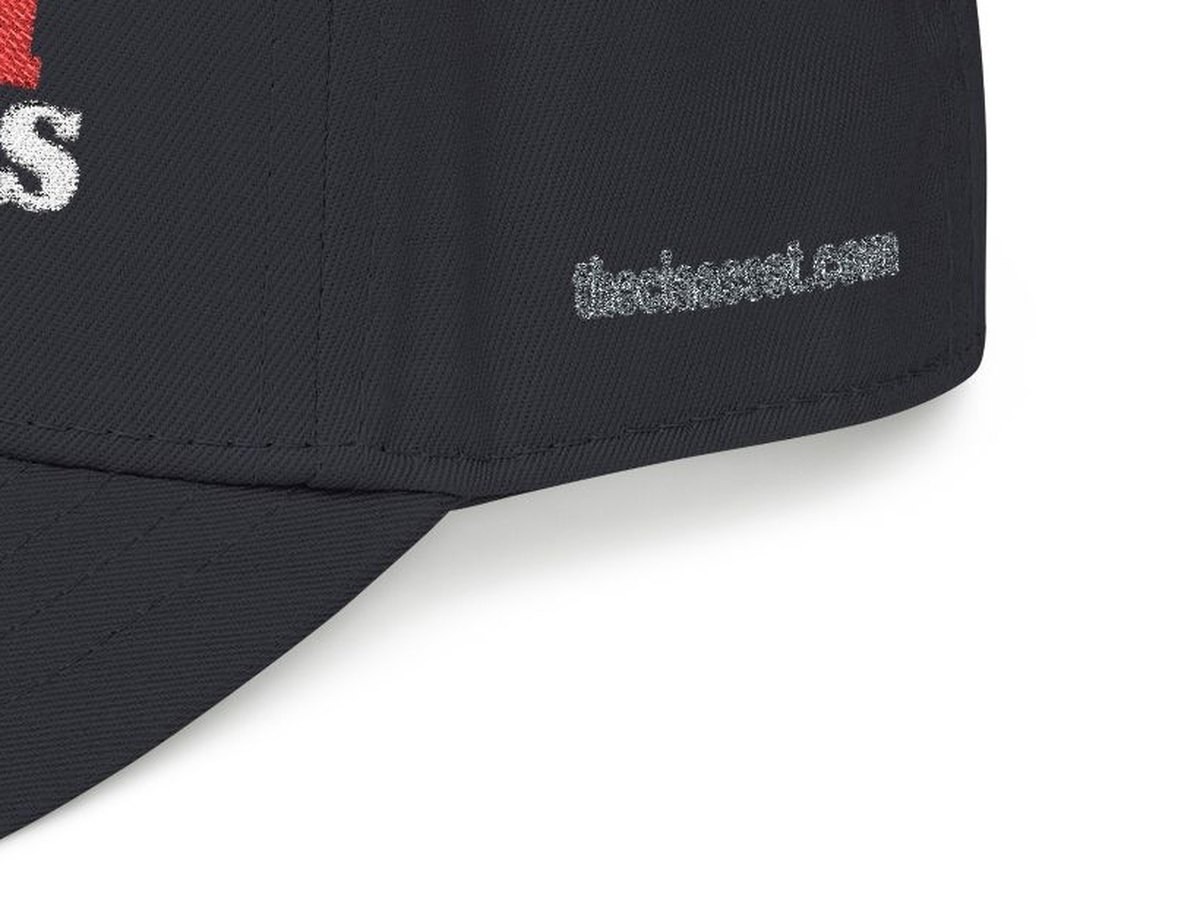
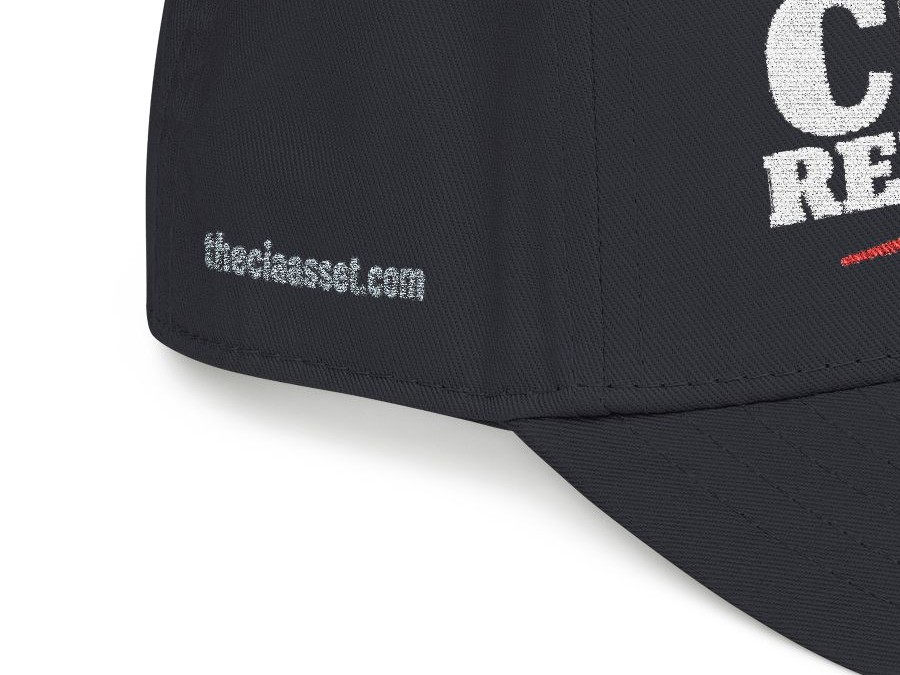
The cap's side close-up from the right-side render at its actual pixels (Jason, 2026-11-17: "How come the url looks high quality on the right side of the hat and looks so poorly on the left side?"): both sides carry the same embroidery file; Printify's left-side render squeezes and smears the small 

diff --git a/assets/merch.js b/assets/merch.js
@@ -96,7 +96,7 @@
     const alt = { front: `The ${n} cap from the front: the design embroidered across the front panel in ${thread} thread`, left: `The ${n} cap from the left: theciaasset.com embroidered in grey on the side`,
       right: `The ${n} cap from the right: theciaasset.com embroidered in grey on the side`, back: `The back of the ${n} cap with its adjustable snapback`,
       detail: `Close-up of the front embroidery on the ${n} cap`, side: `Close-up of theciaasset.com embroidered on the side of the ${n} cap` };
-    return CAP_VIEWS.map(([k, label]) => ({ src: `assets/caps/oc31069-${c}-${k}.jpg?v=2`, thumb: `assets/caps/oc31069-${c}-${k}-thumb.jpg?v=2`, label, alt: alt[k] })); };   // v2: the URL on one line (cap-v2)
+    return CAP_VIEWS.map(([k, label]) => ({ src: `assets/caps/oc31069-${c}-${k}.jpg?v=3`, thumb: `assets/caps/oc31069-${c}-${k}-thumb.jpg?v=3`, label, alt: alt[k] })); };   // v2: the URL on one line (cap-v2); v3: the side close-up from the right-side render at its actual pixels (the left render's stitch simulation smears small text; both sides are the same file)
   const SHOTSETS = { R112: { blackwhite: HAT_SHOTS }, OC31069: { black: capShots('black'), white: capShots('white') } };
   const photoOf = (code, color, fallback) => (SHOTSETS[code] ? (SHOTSETS[code][color] || Object.values(SHOTSETS[code])[0])[0].thumb : SHOTS[code]?.[color] || fallback || null);
   const isHat = (it) => it?.product?.kind === 'hat';

diff --git a/index.html b/index.html
@@ -949,6 +949,6 @@
 </dialog>
 <div class="toast" id="toast" role="status" aria-live="polite"></div>
 <script src="assets/site.js?v=104" defer></script>
-<script src="assets/merch.js?v=11" defer></script>
+<script src="assets/merch.js?v=12" defer></script>
 </body>
 </html>
